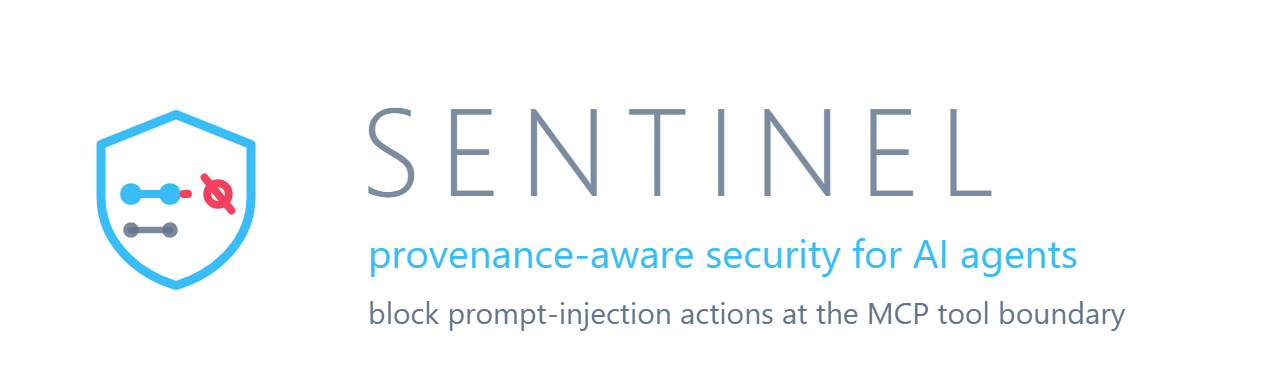
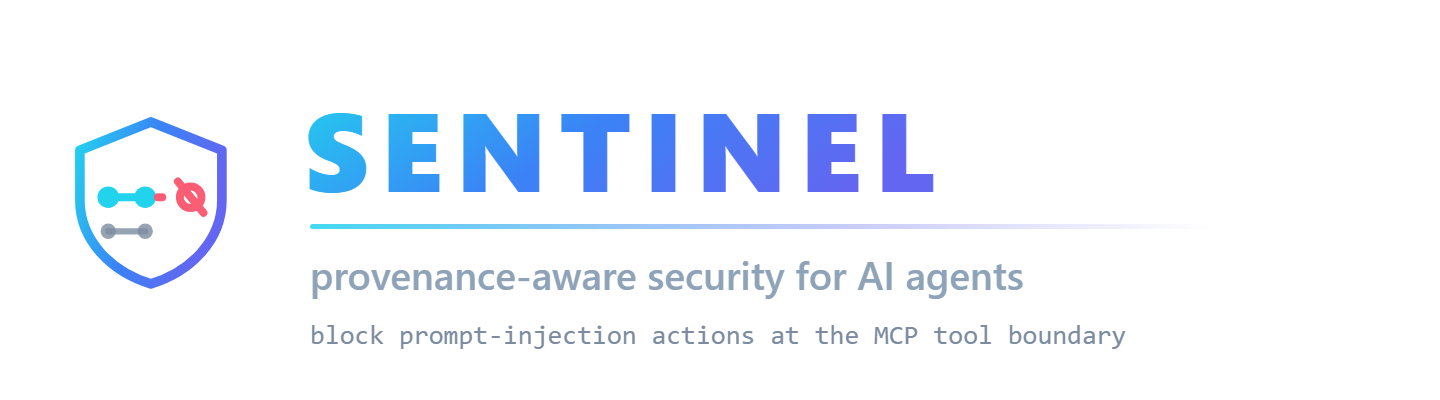
docs: stronger wordmark and chunkier badges
Improves the original banner rather than replacing its character: the thin grey wordmark read as washed out at README scale, so it is now heavy and wide-tracked with a cyan-to-indigo gradient carried through the shield mark and an accent rule. Background stays transparent, which is what let the original sit well on both the light and dark GitHub themes. Badges move to the chunky for-the-badge style on a near-black label, and two of them carry substance rather than decoration (TESTS 370 PASSING, CODEBASE NO EVAL). Every badge URL verified to return 200.

Changed region(s): [[0.0312, 0.2605, 0.7812, 0.7816], [0.2188, 0.6368, 0.8438, 0.7526], [0.2188, 0.7816, 0.875, 0.8684]]

diff --git a/README.md b/README.md
@@ -1,14 +1,17 @@
 <div align="center">
 
-<img src="https://raw.githubusercontent.com/Harshith029/Sentinel/main/assets/banner.png" alt="SENTINEL — provenance-aware security for AI agents" width="640">
+<img src="https://raw.githubusercontent.com/Harshith029/Sentinel/main/assets/banner.png" alt="SENTINEL — provenance-aware security for AI agents" width="680">
 
-[![PyPI](https://img.shields.io/pypi/v/sentinel-prox?color=38BDF8&label=pypi)](https://pypi.org/project/sentinel-prox/)
-[![Python](https://img.shields.io/pypi/pyversions/sentinel-prox?color=38BDF8)](https://pypi.org/project/sentinel-prox/)
-[![CI](https://github.com/Harshith029/Sentinel/actions/workflows/ci.yml/badge.svg)](https://github.com/Harshith029/Sentinel/actions/workflows/ci.yml)
-[![License: MIT](https://img.shields.io/badge/license-MIT-38BDF8.svg)](./LICENSE)
-[![Checked with mypy](https://img.shields.io/badge/mypy-strict-2ea44f.svg)](http://mypy-lang.org/)
-[![Ruff](https://img.shields.io/badge/lint-ruff-2ea44f.svg)](https://github.com/astral-sh/ruff)
-[![Live demo](https://img.shields.io/badge/demo-live-2ea44f.svg)](https://sentinel-i63x.onrender.com)
+[![PyPI](https://img.shields.io/pypi/v/sentinel-prox?style=for-the-badge&labelColor=0B1220&color=22D3EE&label=PYPI)](https://pypi.org/project/sentinel-prox/)
+[![Python](https://img.shields.io/pypi/pyversions/sentinel-prox?style=for-the-badge&labelColor=0B1220&color=3B82F6&label=PYTHON)](https://pypi.org/project/sentinel-prox/)
+[![CI](https://img.shields.io/github/actions/workflow/status/Harshith029/Sentinel/ci.yml?style=for-the-badge&labelColor=0B1220&color=22D3EE&label=CI)](https://github.com/Harshith029/Sentinel/actions/workflows/ci.yml)
+[![License](https://img.shields.io/badge/LICENSE-MIT-3B82F6?style=for-the-badge&labelColor=0B1220)](./LICENSE)
+[![Live demo](https://img.shields.io/badge/DEMO-LIVE-6366F1?style=for-the-badge&labelColor=0B1220)](https://sentinel-i63x.onrender.com)
+
+[![tests](https://img.shields.io/badge/TESTS-370%20PASSING-22D3EE?style=for-the-badge&labelColor=0B1220)](./tests)
+[![mypy](https://img.shields.io/badge/MYPY-STRICT-3B82F6?style=for-the-badge&labelColor=0B1220)](http://mypy-lang.org/)
+[![ruff](https://img.shields.io/badge/LINT-RUFF-3B82F6?style=for-the-badge&labelColor=0B1220)](https://github.com/astral-sh/ruff)
+[![no eval](https://img.shields.io/badge/CODEBASE-NO%20EVAL-22D3EE?style=for-the-badge&labelColor=0B1220)](./src/sentinel/authorization/ast.py)
 
 **Stop prompt-injection attacks at the action layer — where the damage happens.**
 
